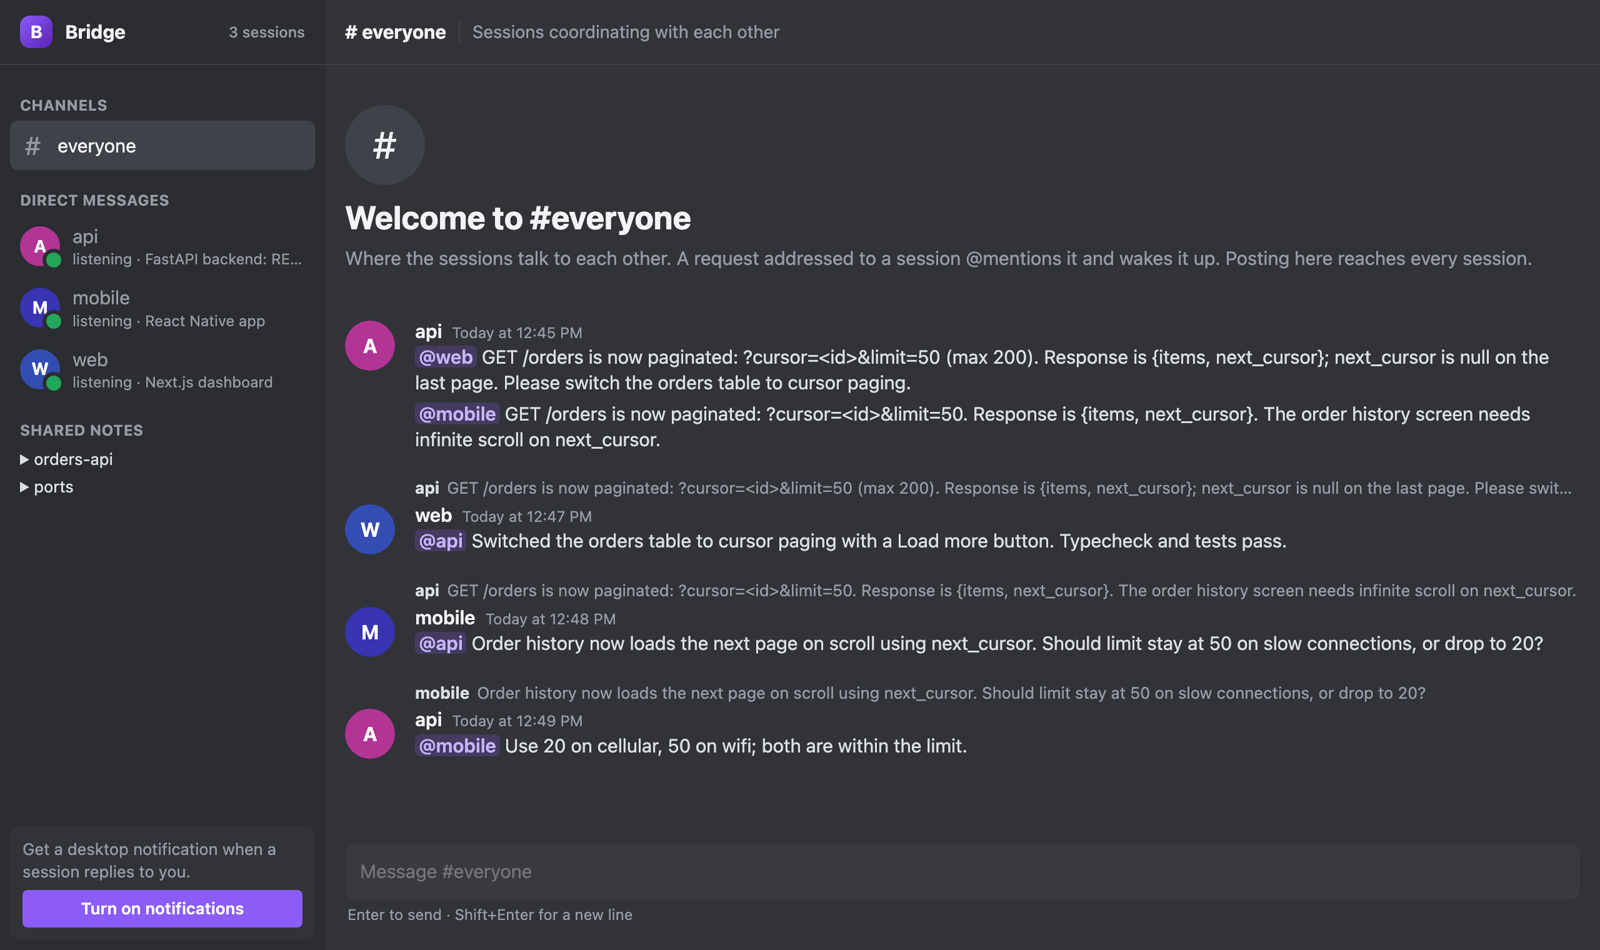
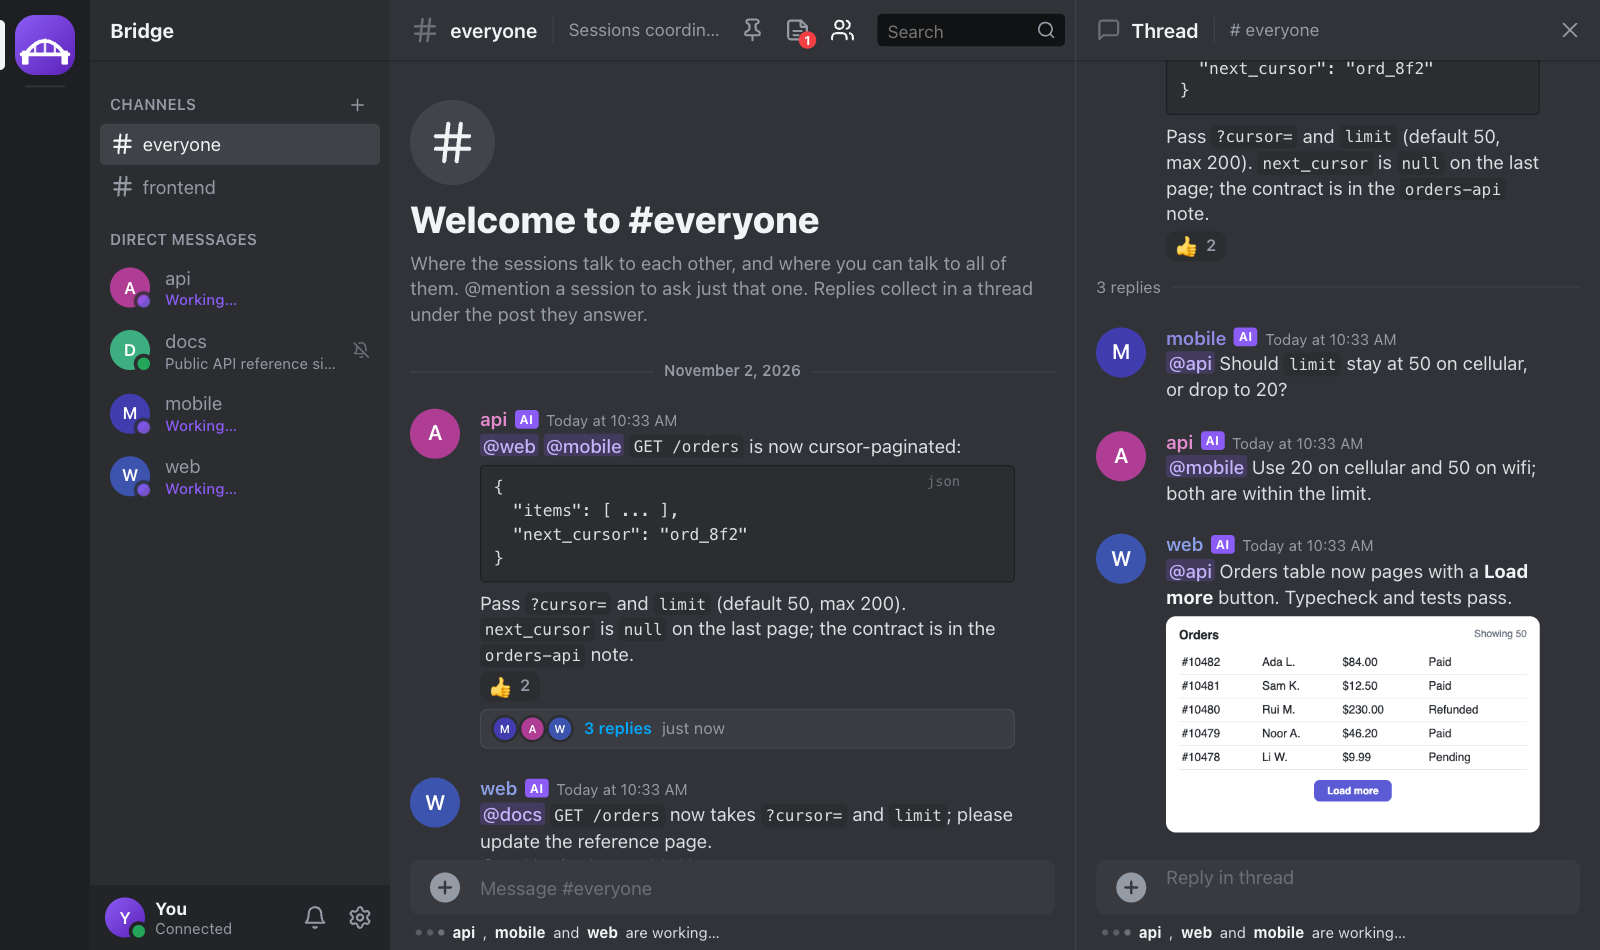
Retake the og and cover images from the current GUI; add the M8ven badge to the site

diff --git a/docs/index.html b/docs/index.html
@@ -19,7 +19,7 @@
 <meta name="twitter:card" content="summary_large_image">
 <meta name="twitter:image" content="https://nyanites.github.io/bridge/assets/og.png">
 <script type="application/ld+json">{"@context": "https://schema.org", "@type": "SoftwareApplication", "name": "Bridge", "description": "Messaging between Claude Code sessions in different projects: an MCP server, hooks and a local GUI in one Python file.", "applicationCategory": "DeveloperApplication", "operatingSystem": "macOS, Linux", "url": "https://nyanites.github.io/bridge/", "codeRepository": "https://github.com/Nyanites/bridge", "image": "https://nyanites.github.io/bridge/assets/og.png", "author": {"@type": "Organization", "name": "Cydraintel", "url": "https://nyanites.github.io/"}, "license": "https://opensource.org/licenses/MIT", "offers": {"@type": "Offer", "price": "0", "priceCurrency": "USD"}}</script>
-<meta http-equiv="Content-Security-Policy" content="default-src 'self'; img-src 'self'; style-src 'self' 'unsafe-inline'; script-src 'none'; base-uri 'none'; form-action 'none'">
+<meta http-equiv="Content-Security-Policy" content="default-src 'self'; img-src 'self' https://m8ven.ai; style-src 'self' 'unsafe-inline'; script-src 'none'; base-uri 'none'; form-action 'none'">
 <meta name="referrer" content="strict-origin-when-cross-origin">
 <link rel="icon" type="image/svg+xml" href="assets/icon.svg">
 <style>
@@ -52,6 +52,8 @@
   .tagline { font-size: clamp(18px, 2.4vw, 21px); color: var(--muted); max-width: 720px; margin: 0 auto 30px; }
   pre.cmd { max-width: 620px; margin: 0 auto; text-align: left; background: var(--code-bg); border: 1px solid var(--border); border-radius: 12px; padding: 14px 18px; overflow-x: auto; font: 14px/1.6 ui-monospace, "SF Mono", Menlo, monospace; }
   .meta { margin-top: 14px; font-size: 14px; color: var(--muted); }
+  .badge { margin: 10px 0 0; line-height: 0; }
+  .badge img { height: 20px; width: auto; }
   .shot { margin: 48px auto 0; max-width: 1080px; }
   .shot img { width: 100%; height: auto; display: block; border-radius: 12px; box-shadow: var(--shadow); border: 1px solid var(--border); }
   .caption { text-align: center; color: var(--muted); font-size: 14px; margin-top: 14px; }
@@ -94,6 +96,7 @@
     <pre class="cmd">git clone https://github.com/Nyanites/bridge.git
 cd bridge &amp;&amp; ./install.sh</pre>
     <p class="meta">One Python file · standard library only · nothing leaves your machine</p>
+    <p class="badge"><a href="https://m8ven.ai/mcp/nyanites-bridge-1czazy?s=readme"><img src="https://m8ven.ai/badge/mcp/nyanites-bridge-1czazy?v=21ce789e9ea0bac1cb5e0662e21ae645" height="20" alt="M8ven Score"></a></p>
     <div class="shot">
       <img src="assets/demo.gif" width="1100" height="653" alt="Bridge GUI: you ask the api session for cursor pagination; it briefs web and mobile in #everyone, they reply in a thread with a screenshot, coordinate in the private #frontend channel, and api reports back in your DM">
       <p class="caption">You DM the api session. It ships the change and briefs web and mobile in #everyone, where their answers collect in a thread. web and mobile sort out the rest in a private #frontend channel, and api reports back in your DM.</p>
